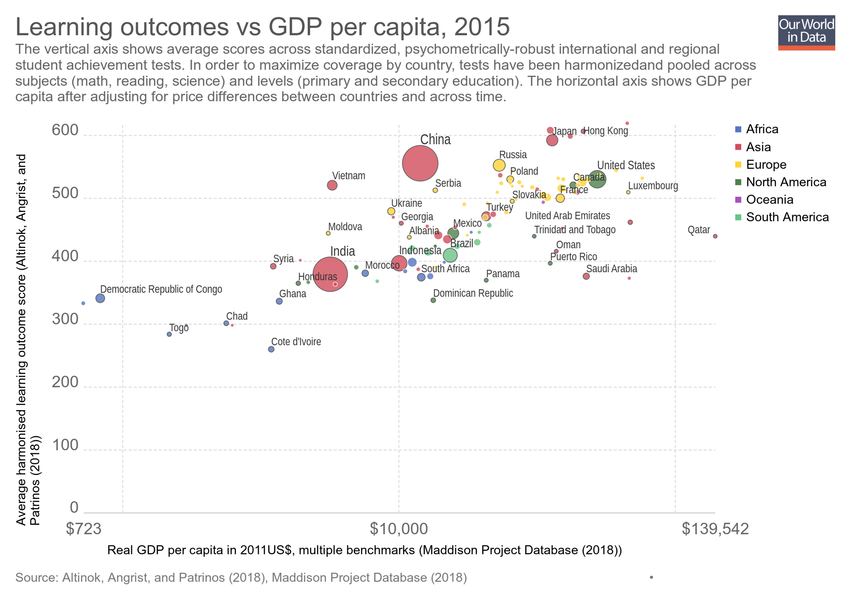
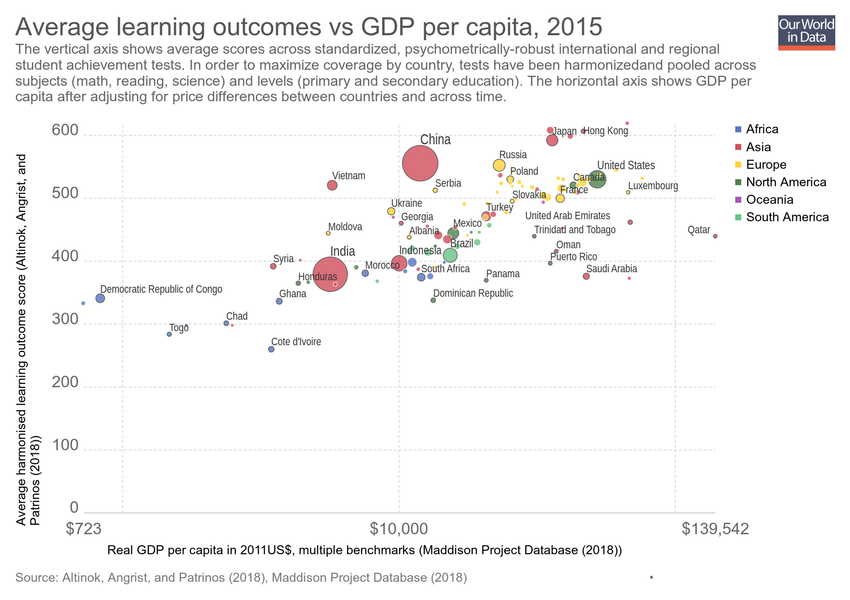
Updating chart learning-outcomes-vs-gdp-per-capita

Changed region(s): [[0.0, 0.03, 0.7035, 0.09]]

diff --git a/grapher/learning-outcomes-vs-gdp-per-capita.html b/grapher/learning-outcomes-vs-gdp-per-capita.html
@@ -1,4 +1,4 @@
-<!doctype html><html><head><meta name="viewport" content="width=device-width, initial-scale=1" /><title>Learning outcomes vs GDP per capita - Our World in Data</title><meta name="description" content="The vertical axis shows average scores across standardized, psychometrically-robust international and regional student achievement tests. In order to maximize coverage by country, tests have been harmonizedand pooled across subjects (math, reading, science) and levels (primary and secondary education). The horizontal axis shows GDP per capita after adjusting for price differences between countries and across time." /><link rel="canonical" href="https://ourworldindata.org/grapher/learning-outcomes-vs-gdp-per-capita" /><meta property="fb:app_id" content="1149943818390250" /><meta property="og:url" content="https://ourworldindata.org/grapher/learning-outcomes-vs-gdp-per-capita" /><meta property="og:title" content="Learning outcomes vs GDP per capita" /><meta property="og:description" content="The vertical axis shows average scores across standardized, psychometrically-robust international and regional student achievement tests. In order to maximize coverage by country, tests have been harmonizedand pooled across subjects (math, reading, science) and levels (primary and secondary education). The horizontal axis shows GDP per capita after adjusting for price differences between countries and across time." /><meta property="og:image" content="https://ourworldindata.org/grapher/exports/learning-outcomes-vs-gdp-per-capita.png?v=5" /><meta property="og:image:width" content="850" /><meta property="og:image:height" content="600" /><meta property="og:site_name" content="Our World in Data" /><meta name="twitter:card" content="summary_large_image" /><meta name="twitter:site" content="@OurWorldInData" /><meta name="twitter:creator" content="@OurWorldInData" /><meta name="twitter:title" content="Learning outcomes vs GDP per capita" /><meta name="twitter:description" content="The vertical axis shows average scores across standardized, psychometrically-robust international and regional student achievement tests. In order to maximize coverage by country, tests have been harmonizedand pooled across subjects (math, reading, science) and levels (primary and secondary education). The horizontal axis shows GDP per capita after adjusting for price differences between countries and across time." /><meta name="twitter:image" content="https://ourworldindata.org/grapher/exports/learning-outcomes-vs-gdp-per-capita.png?v=5" /><style>
+<!doctype html><html><head><meta name="viewport" content="width=device-width, initial-scale=1" /><title>Average learning outcomes vs GDP per capita - Our World in Data</title><meta name="description" content="The vertical axis shows average scores across standardized, psychometrically-robust international and regional student achievement tests. In order to maximize coverage by country, tests have been harmonizedand pooled across subjects (math, reading, science) and levels (primary and secondary education). The horizontal axis shows GDP per capita after adjusting for price differences between countries and across time." /><link rel="canonical" href="https://ourworldindata.org/grapher/learning-outcomes-vs-gdp-per-capita" /><meta property="fb:app_id" content="1149943818390250" /><meta property="og:url" content="https://ourworldindata.org/grapher/learning-outcomes-vs-gdp-per-capita" /><meta property="og:title" content="Average learning outcomes vs GDP per capita" /><meta property="og:description" content="The vertical axis shows average scores across standardized, psychometrically-robust international and regional student achievement tests. In order to maximize coverage by country, tests have been harmonizedand pooled across subjects (math, reading, science) and levels (primary and secondary education). The horizontal axis shows GDP per capita after adjusting for price differences between countries and across time." /><meta property="og:image" content="https://ourworldindata.org/grapher/exports/learning-outcomes-vs-gdp-per-capita.png?v=7" /><meta property="og:image:width" content="850" /><meta property="og:image:height" content="600" /><meta property="og:site_name" content="Our World in Data" /><meta name="twitter:card" content="summary_large_image" /><meta name="twitter:site" content="@OurWorldInData" /><meta name="twitter:creator" content="@OurWorldInData" /><meta name="twitter:title" content="Average learning outcomes vs GDP per capita" /><meta name="twitter:description" content="The vertical axis shows average scores across standardized, psychometrically-robust international and regional student achievement tests. In order to maximize coverage by country, tests have been harmonizedand pooled across subjects (math, reading, science) and levels (primary and secondary education). The horizontal axis shows GDP per capita after adjusting for price differences between countries and across time." /><meta name="twitter:image" content="https://ourworldindata.org/grapher/exports/learning-outcomes-vs-gdp-per-capita.png?v=7" /><style>
         html, body {
             height: 100%;
             margin: 0;
@@ -20,8 +20,8 @@
         }
     </style><noscript><style>
                     figure { display: none !important; }
-                </style></noscript><link rel="stylesheet" href="https://ourworldindata.org/grapher/assets/commons.bundle.7bc7a3a90f15cac09df5.css" /><link rel="preload" href="/grapher/data/variables/97675+66390+72+123.json?v=5" as="fetch" crossorigin /></head><body class="singleChart"><figure data-grapher-src="/grapher/learning-outcomes-vs-gdp-per-capita"></figure><noscript id="fallback"><img src="/grapher/exports/learning-outcomes-vs-gdp-per-capita.svg" /><p>Interactive visualization requires JavaScript</p></noscript><script src="https://cdn.polyfill.io/v2/polyfill.min.js?features=es6,fetch"></script><script src="https://ourworldindata.org/grapher/assets/commons.bundle.7bc7a3a90f15cac09df5.js"></script><script src="https://ourworldindata.org/grapher/assets/charts.bundle.7bc7a3a90f15cac09df5.js"></script><script>
-        var jsonConfig = {"id":2891,"map":{"projection":"World","colorSchemeLabels":[],"colorSchemeValues":[],"customNumericColors":[],"customCategoryColors":{},"customCategoryLabels":{},"customHiddenCategories":{}},"tab":"chart","slug":"learning-outcomes-vs-gdp-per-capita","type":"ScatterPlot","title":"Learning outcomes vs GDP per capita","xAxis":{"scaleType":"log","canChangeScaleType":true},"yAxis":{"min":0,"scaleType":"linear"},"maxTime":2015,"minTime":2015,"version":5,"subtitle":"The vertical axis shows average scores across standardized, psychometrically-robust international and regional student achievement tests. In order to maximize coverage by country, tests have been harmonizedand pooled across subjects (math, reading, science) and levels (primary and secondary education). The horizontal axis shows GDP per capita after adjusting for price differences between countries and across time.","hasMapTab":false,"stackMode":"absolute","dimensions":[{"display":{"tolerance":5},"property":"y","variableId":97675},{"display":{},"property":"x","variableId":66390},{"display":{},"property":"size","variableId":72},{"display":{},"property":"color","variableId":123}],"hasChartTab":true,"isPublished":true,"selectedData":[],"internalNotes":"DRAFT _ DO NOT SHARE","compareEndPointsOnly":true};
+                </style></noscript><link rel="stylesheet" href="https://ourworldindata.org/grapher/assets/commons.bundle.7bc7a3a90f15cac09df5.css" /><link rel="preload" href="/grapher/data/variables/97675+66390+72+123.json?v=7" as="fetch" crossorigin /></head><body class="singleChart"><figure data-grapher-src="/grapher/learning-outcomes-vs-gdp-per-capita"></figure><noscript id="fallback"><img src="/grapher/exports/learning-outcomes-vs-gdp-per-capita.svg" /><p>Interactive visualization requires JavaScript</p></noscript><script src="https://cdn.polyfill.io/v2/polyfill.min.js?features=es6,fetch"></script><script src="https://ourworldindata.org/grapher/assets/commons.bundle.7bc7a3a90f15cac09df5.js"></script><script src="https://ourworldindata.org/grapher/assets/charts.bundle.7bc7a3a90f15cac09df5.js"></script><script>
+        var jsonConfig = {"id":2891,"map":{"projection":"World","colorSchemeLabels":[],"colorSchemeValues":[],"customNumericColors":[],"customCategoryColors":{},"customCategoryLabels":{},"customHiddenCategories":{}},"tab":"chart","slug":"learning-outcomes-vs-gdp-per-capita","type":"ScatterPlot","title":"Average learning outcomes vs GDP per capita","xAxis":{"scaleType":"log","canChangeScaleType":true},"yAxis":{"min":0,"scaleType":"linear"},"maxTime":2015,"minTime":2015,"version":7,"subtitle":"The vertical axis shows average scores across standardized, psychometrically-robust international and regional student achievement tests. In order to maximize coverage by country, tests have been harmonizedand pooled across subjects (math, reading, science) and levels (primary and secondary education). The horizontal axis shows GDP per capita after adjusting for price differences between countries and across time.","hasMapTab":false,"stackMode":"absolute","dimensions":[{"display":{"tolerance":5},"property":"y","variableId":97675},{"display":{},"property":"x","variableId":66390},{"display":{},"property":"size","variableId":72},{"display":{},"property":"color","variableId":123}],"hasChartTab":true,"isPublished":true,"selectedData":[],"internalNotes":"DRAFT _ DO NOT SHARE","compareEndPointsOnly":true};
         var figure = document.getElementsByTagName("figure")[0];
         try {
             window.App = {};
